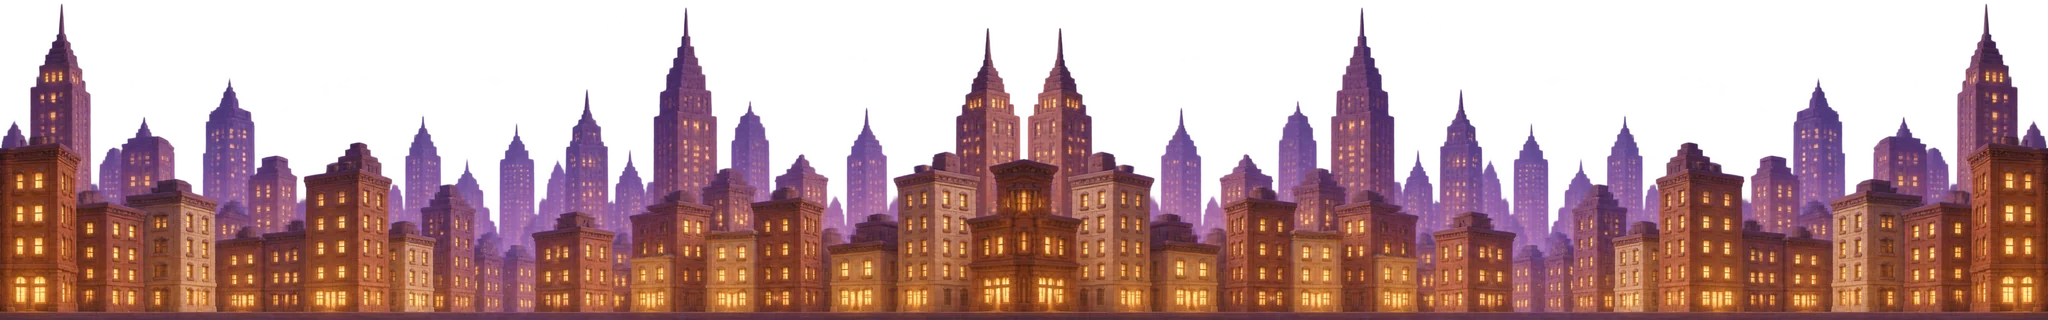
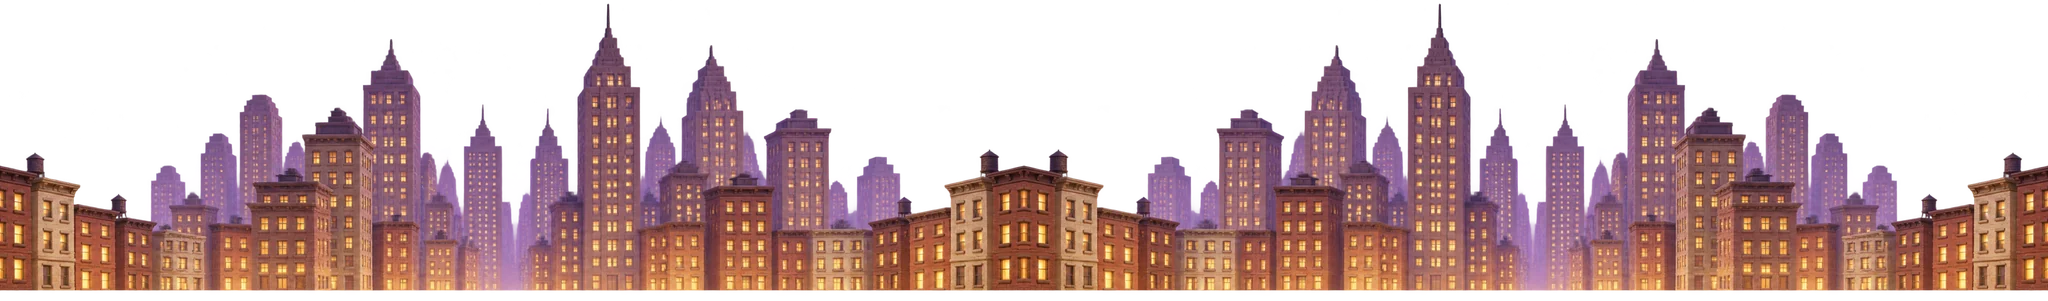
feat: uptown's near skyline redrawn with low edges, so the mirrored ring makes no twin spires; ledger, city approved

diff --git a/docs/specs/2026-10-09-hifi-round2-ledger.md b/docs/specs/2026-10-09-hifi-round2-ledger.md
@@ -89,6 +89,7 @@ last-verified: never
 | city images: party walls, trims (3 + 3) | 2 | #133 #135 #137 · #140 #141 #144 | in wave 2 | `facades/<theme>-party.webp`, `facades/<theme>-trims.webp` | 1024² | accepted all 2026-10-13 |
 | city images: posters, blade signs, LED faces (12 + 6 + 3) | 2 | #146 #147 #149 #151 #153 #155 #157 #159 #161 #163 #166 #167 · #170 #172 #173 #175 #178 #179 · #182 #183 #185 | in wave 2 | `public/hifi/city/signs/{poster,blade,led}-0N.webp` | 1024 long side | accepted all 2026-10-13 |
 | city images: skylines (8) | 2 | #187 #189 · #3910 #3932 (midtown, redone without the sun glow) · #195 #198 · #199 #201 | in wave 2 + redo | `public/hifi/city/sky/<theme>-01.webp` (far), `-02` (near) | 2048 wide, mirrored, cropped to the tower band | accepted all 2026-10-13 |
+| uptown near skyline, redrawn | 2 (redo) | b8b124e8 (candidate 3 of c23d86cd, d8994799, b8b124e8) | 3 | `public/hifi/city/sky/uptown-02.webp` (replaces #201) | 2048×301, 154 KB | Caedon: "Candidate 3", 2026-10-14 (board 16d, Paper page "16c Redraws") |
 
 ## Credits
 
@@ -105,6 +106,7 @@ Budget for the round: about 750 (ask again above about 1,000). Balance at the st
 | 21 | 4114db73 (sedan retry, `texture_seed` 42) | tripo_h3_1_multiview_to_3d | the one retry inside the approval | 18 (2,288.5 → 2,270.5); wave 3 in all 522, round 709.25 |
 | 23 | `scratchpad/w3-redraw-jobs.tsv`: 4 scaffold concepts (1 failed, free), 4 Milkshake arms-down fronts | gpt_image_2_5 (1:1, 1k, low) | redraws (Caedon: scaffold "Redraw, open below (~19)", Milkshake "New model, arms down (~19)") | 1.75 (2,270.5 → 2,268.75) |
 | 23 | 5ebcc6a0 (scaffold, concept 31cce4f0), c38c3879 / 67949bb6 / 1908b85f (Milkshake left, rear, right from front e9285c68), c5e689da (Milkshake multi-view) | tripo_h3_1_image_to_3d, gpt_image_2_5, tripo_h3_1_multiview_to_3d | Caedon's picks: scaffold candidate 2, Milkshake candidate 2 (Paper page "16c Redraws") | 36.75 (2,268.75 → 2,232); round 747.75 |
+| 24b | c23d86cd, d8994799, b8b124e8 | gpt_image_2_5 (21:9, 2k, medium, transparent; uptown style frame ce281982 as reference) | uptown near-skyline redraw with no tall tower at the strip's edges (Caedon: "Redraw it", then "Run it (3)") | 3 (2,232 → 2,229); round 750.75 |
 
 ## Downloads and dependencies
 
@@ -113,6 +115,7 @@ Budget for the round: about 750 (ask again above about 1,000). Balance at the st
 | 20 | 62 picked wave 2 PNGs (index in `scratchpad/raw/images/index.json`) | d8j0ntlcm91z4.cloudfront.net (Higgsfield CDN) → `scratchpad/raw/images/` | 166.5 MB (sizes checked against HEAD); tiled WebPs in the repo: 62 files, 3.2 MB | Caedon: "Download (166.5 MB)", 2026-10-13 |
 | 22 | 28 wave 3 GLBs (`scratchpad/raw/models/<name>_raw.glb`, index in `raw/models/index.json`; the sedan is the retry 4114db73) | d8j0ntlcm91z4.cloudfront.net (Higgsfield CDN) | 167.3 MB, 3.9–7.9 MB each; every file matches its content-length and starts with `glTF` | Caedon: "Download all 28", 2026-10-13 |
 | 23 | 2 redrawn GLBs (`scratchpad/raw/models/{scaffold_beam,milkshake}_v2_raw.glb`; jobs 5ebcc6a0, c5e689da) | d8j0ntlcm91z4.cloudfront.net (Higgsfield CDN) | 12.3 MB (6.35 + 5.92); both match content-length and start with `glTF` | Caedon: "Download both", 2026-10-14 |
+| 24b | the picked uptown near skyline (`scratchpad/dl-uptown02/uptown-02-b8b124e8.png`; the old tile kept beside it) | d8j0ntlcm91z4.cloudfront.net (Higgsfield CDN) | 2.99 MB (matches content-length); tiled WebP 154 KB | Caedon: "Download it", 2026-10-14 |
 
 ## Stills and measurements
 
@@ -339,6 +342,8 @@ Every task against itself:
 - Task 23x: Ruling: `lib/facade.js` and `props/billboard.js` keep their `material()`-by-path cache: after a release and reload they hand back the old material, whose disposed texture three re-uploads from the retained image, so it still draws; the cost is one duplicate image per tile per release cycle, bounded by the tile count (15 facades, 12 posters) and only on a street → non-street → street path — left for the final review rather than a fourth fix round — cost if wrong: ~4 MB a tile held across a cycle.
 - Task 25: board 17 "Wave 4 finals" on its own Paper page (p-5-0; in-game crops of every asset under the final looks: city per theme, street furniture and signs, glow crops, obstacles, pickups, props, Milkshake, flags). Caedon (2026-10-14, AskUserQuestion): street kit "Approve" (signals and sedan h as they are), obstacles/pickups/props "Approve", Milkshake "Approve"; city NOT approved: "we need to fix the skyline so it matches the style frames we had. This also means we need to widen the street angle so that there is more [sidewalk] for the trees to fit into because right now they are phasing into the facades."
 - Task 24b: Ruling: Caedon's city fix is read against his picked style frames (downtown f549c2e3, midtown ae99b100, uptown ce281982, bridge dbb92908): a wide avenue with deep sidewalks and buildings well back, and a dense tall skyline cluster filling the avenue's end — so the HiFi sidewalks widen from 3 m to 6 m (facades from 7.5 to 10.5 m; furniture re-spaced; gameplay road and `?lofi` untouched), and the skyline target height becomes a per-theme look value tuned by eye (a live probe: one wrap far at 216 m and two near at 152 m already fills the avenue's end far more like the frames) — cost if wrong: a re-tune of two constants.
+- Task 24b: Ruling (uptown redraw tiling): the redrawn strip carries faint alpha (below 8 of 255) high in its sky, so the Task 20 crop's "8 px above the alpha bounding box" uses the box of alpha ≥ 8 (top 371 of 1152, crop from 363 to the bottom), else the ring would carry 0.3 of empty sky — cost if wrong: re-run `scripts/tile-image.py` with another crop.
+- Task 25: Caedon approved the city (board 17b, 2026-10-14, AskUserQuestion "Approve"): 6 m sidewalks, per-theme skyline heights, the rings turned off their mirror seam; and asked for uptown's near skyline redrawn ("Redraw it"), done with candidate 3. Task 25 complete.
 - Task 23: Milkshake's measurement scripts (slices, parts, runcycle, compare, inspect) kept in the plan workspace `t23-milkshake-scripts/` (git-ignored; they read the GLB through the CLI's transitive `@gltf-transform/core`, so not committed as tooling).
 - Task 23: the scaffold is fitted from the road to its box top (posts and braces y 0–1.2 below the plank band's box): a departure from Caedon's inside-the-box rule for `slide`, merged pending his call with the other look decisions; the strict fit is a 0.39 m toy floating at 1.2 m.
 
